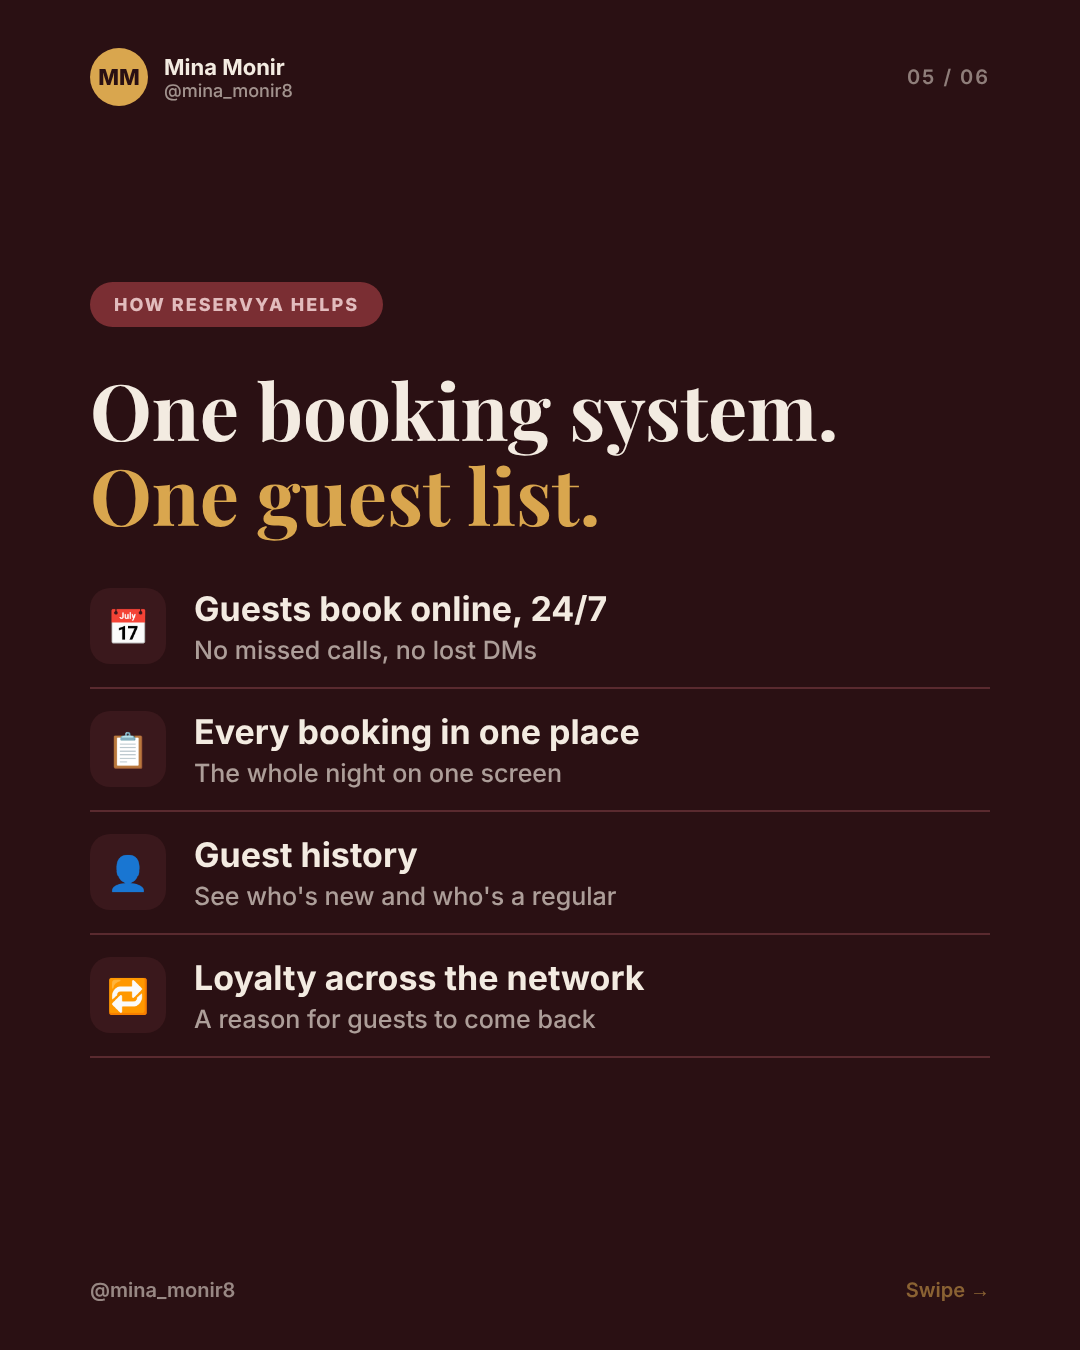
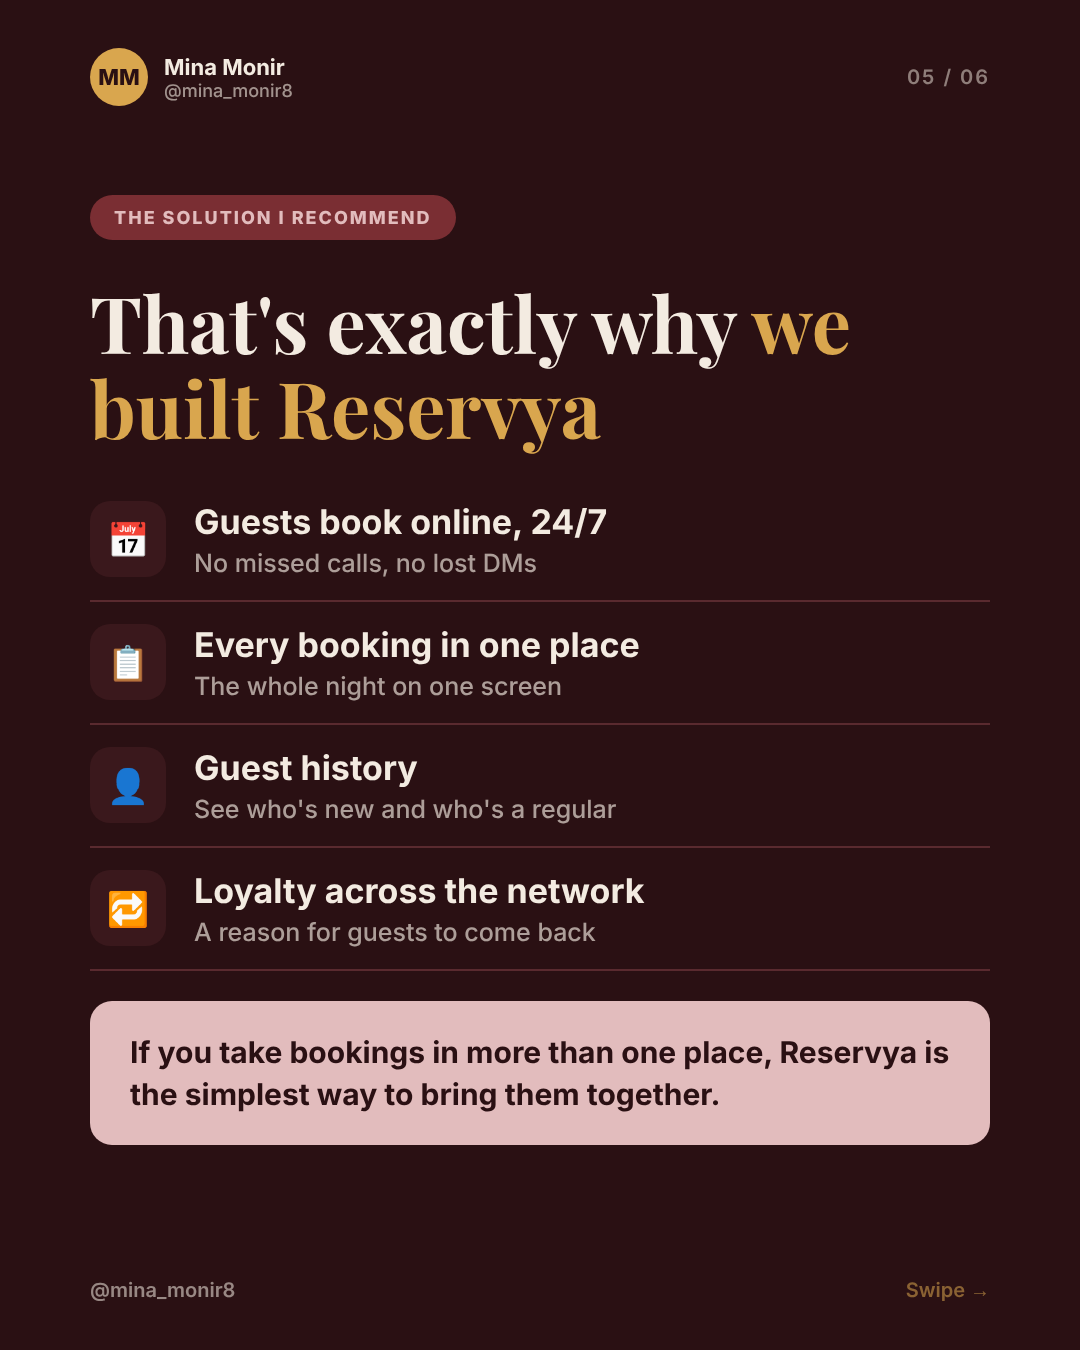
Day 1: recommend Reservya on the solution and CTA slides
Claude-Session: https://claude.ai/code/session_01CmnJbFX4ccHTCS1rkQf2au

Changed region(s): [[0.0611, 0.1244, 0.9167, 0.8711]]

diff --git a/carousel/day-01-booking-chaos/carousel.html b/carousel/day-01-booking-chaos/carousel.html
@@ -126,14 +126,17 @@ h2{font-family:'Playfair Display',serif;font-weight:700;font-size:78px;line-heig
     <h2 style="margin:40px 0 30px">5 fixes that cost <span class="rose">nothing</span></h2>
     <div class="li"><div class="ic">1</div><div>One place for every booking<small>One book or one sheet. No exceptions</small></div></div><div class="li"><div class="ic">2</div><div>One owner per shift<small>One person is responsible for bookings</small></div></div><div class="li"><div class="ic">3</div><div>Same details, every time<small>Name, number, time, party size</small></div></div><div class="li"><div class="ic">4</div><div>Write down the occasion<small>Birthday, anniversary, allergy</small></div></div><div class="li"><div class="ic">5</div><div>Send DMs to one link or number<small>Stop taking bookings in comments</small></div></div></div><div class="bot"><span>@mina_monir8</span><span class="sw">Swipe →</span></div></section>
 <section class="slide dark "><div class="top"><div class="who"><div class="av">MM</div><div><div class="name">Mina Monir</div><div class="handle">@mina_monir8</div></div></div><div class="num">05 / 06</div></div><div style="margin-top:auto;margin-bottom:auto">
-    <span class="tag">How Reservya helps</span>
-    <h2 style="margin:40px 0 30px">One booking system. <span class="gold">One guest list.</span></h2>
-    <div class="li"><div class="ic">📅</div><div>Guests book online, 24/7<small>No missed calls, no lost DMs</small></div></div><div class="li"><div class="ic">📋</div><div>Every booking in one place<small>The whole night on one screen</small></div></div><div class="li"><div class="ic">👤</div><div>Guest history<small>See who's new and who's a regular</small></div></div><div class="li"><div class="ic">🔁</div><div>Loyalty across the network<small>A reason for guests to come back</small></div></div></div><div class="bot"><span>@mina_monir8</span><span class="sw">Swipe →</span></div></section>
-<section class="slide dark "><div class="top"><div class="who"><div class="av">MM</div><div><div class="name">Mina Monir</div><div class="handle">@mina_monir8</div></div></div><div class="num">06 / 06</div></div><div style="margin-top:auto;margin-bottom:auto">
-  <h1 style="font-size:92px">Where do <span class="gold">your bookings</span> live?</h1>
-  <p class="sub" style="margin:40px 0 60px">Every booking you lose is a guest you paid to attract. Put them all in one place.</p>
-  <div style="display:flex;flex-direction:column;gap:22px;font:600 34px Inter">
-    <div>🔖 &nbsp;Save this for your next team meeting</div>
-    <div>💬 &nbsp;Comment your number of booking channels</div>
-    <div>➕ &nbsp;Follow <span class="gold">@mina_monir8</span> for more venue economics</div>
-  </div></div><div class="bot"><span>Mina Monir</span><span>@mina_monir8</span></div></section></body></html>
+    <span class="tag">The solution I recommend</span>
+    <h2 style="margin:40px 0 30px">That's exactly why <span class="gold">we built Reservya</span></h2>
+    <div class="li"><div class="ic">📅</div><div>Guests book online, 24/7<small>No missed calls, no lost DMs</small></div></div><div class="li"><div class="ic">📋</div><div>Every booking in one place<small>The whole night on one screen</small></div></div><div class="li"><div class="ic">👤</div><div>Guest history<small>See who's new and who's a regular</small></div></div><div class="li"><div class="ic">🔁</div><div>Loyalty across the network<small>A reason for guests to come back</small></div></div>
+    <div class="pill" style="margin-top:30px">If you take bookings in more than one place, Reservya is the simplest way to bring them together.</div></div><div class="bot"><span>@mina_monir8</span><span class="sw">Swipe →</span></div></section>
+<section class="slide light "><div class="top"><div class="who"><div class="av">MM</div><div><div class="name">Mina Monir</div><div class="handle">@mina_monir8</div></div></div><div class="num">06 / 06</div></div><div style="margin-top:auto;margin-bottom:auto">
+    <span class="tag" style="margin-bottom:36px;display:inline-block">Try Reservya</span>
+    <h1 style="font-size:88px">Put every booking <span class="rose">in one place.</span></h1>
+    <p class="sub" style="margin:36px 0 40px">Every booking you lose is a guest you paid to attract. Stop losing them.</p>
+    <div class="card d" style="margin-bottom:40px"><div class="l">✅ Recommended: Reservya</div><div class="m">Online bookings, guest history and loyalty across a network of restaurants. Now coming to Cairo and Alexandria.</div></div>
+    <div style="display:flex;flex-direction:column;gap:20px;font:600 32px Inter">
+      <div>📩 &nbsp;DM me <span class="rose">"RESERVYA"</span> to get started</div>
+      <div>💬 &nbsp;Comment your number of booking channels</div>
+      <div>➕ &nbsp;Follow <span class="rose">@mina_monir8</span></div>
+    </div></div><div class="bot"><span>Mina Monir</span><span>@mina_monir8</span></div></section></body></html>

diff --git a/carousel/build.js b/carousel/build.js
@@ -365,10 +365,20 @@ const problemPost = (d, p) => [
     <h2 style="margin:40px 0 30px">${p.fixTitle}</h2>
     ${p.fix.map(([t, s], i) => li(i + 1, t, s)).join('')}`) },
   { theme: 'dark', body: center(`
-    <span class="tag">How Reservya helps</span>
-    <h2 style="margin:40px 0 30px">${p.rsvTitle}</h2>
-    ${p.rsv.map(([i, t, s]) => li(i, t, s)).join('')}`) },
-  { theme: 'dark', last: true, body: cta(p.ctaTitle, p.ctaText, p.comment, 'Save this for your next team meeting') },
+    <span class="tag">The solution I recommend</span>
+    <h2 style="margin:40px 0 30px">That's exactly why <span class="gold">we built Reservya</span></h2>
+    ${p.rsv.map(([i, t, s]) => li(i, t, s)).join('')}
+    <div class="pill" style="margin-top:30px">${p.rsvPill}</div>`) },
+  { theme: 'light', last: true, body: center(`
+    <span class="tag" style="margin-bottom:36px;display:inline-block">Try Reservya</span>
+    <h1 style="font-size:88px">${p.ctaTitle}</h1>
+    <p class="sub" style="margin:36px 0 40px">${p.ctaText}</p>
+    <div class="card d" style="margin-bottom:40px"><div class="l">✅ Recommended: Reservya</div><div class="m">Online bookings, guest history and loyalty across a network of restaurants. Now coming to Cairo and Alexandria.</div></div>
+    <div style="display:flex;flex-direction:column;gap:20px;font:600 32px Inter">
+      <div>📩 &nbsp;DM me <span class="rose">"RESERVYA"</span> to get started</div>
+      <div>💬 &nbsp;${p.comment}</div>
+      <div>➕ &nbsp;Follow <span class="rose">@mina_monir8</span></div>
+    </div>`) },
 ];
 const day01 = problemPost(1, {
   hook: 'Your bookings live in 4 places. <span class="gold">None of them talk to each other.</span>',
@@ -379,10 +389,10 @@ const day01 = problemPost(1, {
   why: [['➕', 'Channels added one by one', 'First the phone, then WhatsApp, then Instagram'], ['🙋', 'Whoever\'s free takes the booking', 'And writes it wherever is closest'], ['📍', 'No single source of truth', 'Nobody sees the full picture of the night'], ['⏰', 'Peak hours leave no time', 'The busiest moments get the least care']],
   fixTitle: '5 fixes that cost <span class="rose">nothing</span>',
   fix: [['One place for every booking', 'One book or one sheet. No exceptions'], ['One owner per shift', 'One person is responsible for bookings'], ['Same details, every time', 'Name, number, time, party size'], ['Write down the occasion', 'Birthday, anniversary, allergy'], ['Send DMs to one link or number', 'Stop taking bookings in comments']],
-  rsvTitle: 'One booking system. <span class="gold">One guest list.</span>',
+  rsvPill: 'If you take bookings in more than one place, Reservya is the simplest way to bring them together.',
   rsv: [['📅', 'Guests book online, 24/7', 'No missed calls, no lost DMs'], ['📋', 'Every booking in one place', 'The whole night on one screen'], ['👤', 'Guest history', 'See who\'s new and who\'s a regular'], ['🔁', 'Loyalty across the network', 'A reason for guests to come back']],
-  ctaTitle: 'Where do <span class="gold">your bookings</span> live?',
-  ctaText: 'Every booking you lose is a guest you paid to attract. Put them all in one place.',
+  ctaTitle: 'Put every booking <span class="rose">in one place.</span>',
+  ctaText: 'Every booking you lose is a guest you paid to attract. Stop losing them.',
   comment: 'Comment your number of booking channels',
 });
 const carousels = {
